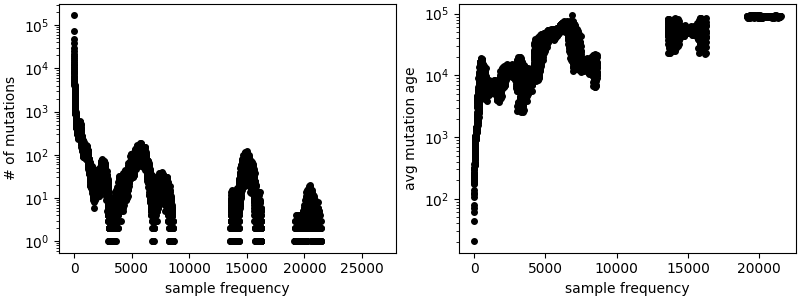
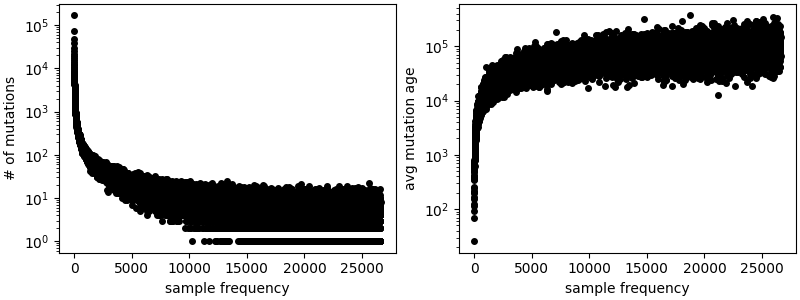
Fix bug where there was no recomb in recapitation

diff --git a/benchmarks/pedigree/spatial-simulation.py b/benchmarks/pedigree/spatial-simulation.py
@@ -339,6 +339,7 @@ if __name__ == "__main__":
         )
         full_ts = msprime.sim_ancestry(
             initial_state=pedigree_ts,
+            recombination_rate=args.recombination_rate,
             population_size=population_size,
             random_seed=args.seed + 2000,
         )
@@ -536,53 +537,3 @@ if __name__ == "__main__":
     axs[1].set_yscale("log")
     plt.savefig(f"{args.out_prefix}.mutations.png")
     plt.clf()
-    
-    import time
-    st = time.time()
-    focal_x = 20.0#args.spatial_extent / 2
-    focal_y = 20.0#args.spatial_extent / 2
-    focal = np.argmin(
-        np.sqrt(
-            (sample_locations[:, 0] - focal_x) ** 2 +
-            (sample_locations[:, 1] - focal_y) ** 2 
-        )
-    )
-    dist_to_focal = \
-        np.sqrt(
-            (sample_locations[:, 0] - sample_locations[focal, 0]) ** 2 +
-            (sample_locations[:, 1] - sample_locations[focal, 1]) ** 2 
-        )
-    subset = np.flatnonzero(dist_to_focal < 10)
-    dist_to_focal = dist_to_focal[subset]
-    order = np.argsort(dist_to_focal)
-    subset = subset[order]
-    dist_to_focal = dist_to_focal[order]
-    subset_nodes = [full_ts.individual(i).nodes for i in subset]
-    #tmp_ts = full_ts.keep_intervals([[5e6, 6e6]]).simplify().trim()
-    tmp_ts = full_ts
-    print(subset.size)
-    print(tmp_ts.simplify(samples=np.array(subset_nodes).flatten()).num_mutations, tmp_ts.num_mutations)
-    print(tmp_ts.simplify(samples=np.array(subset_nodes).flatten()).diversity(), tmp_ts.simplify(samples=np.array(subset_nodes).flatten()).segregating_sites())
-    site_rel_to_focal = tmp_ts.genetic_relatedness(
-        sample_sets=subset_nodes, #[[i] for i in subset],
-        indexes=[(0, j) for j in range(subset.size)],
-        mode='site'
-    )
-    branch_rel_to_focal = tmp_ts.genetic_relatedness(
-        sample_sets=subset_nodes, #[[i] for i in subset],
-        indexes=[(0, j) for j in range(subset.size)],
-        mode='branch'
-    )
-    fig, axs = plt.subplots(1, 2, figsize=(8, 3), constrained_layout=True)
-    axs[0].plot(branch_rel_to_focal, site_rel_to_focal, "o", color="black", markersize=4)
-    axs[0].set_xlabel("branch relatedness")
-    axs[0].set_ylabel("site relatedness")
-    axs[1].plot(dist_to_focal, site_rel_to_focal, "o", color="black", markersize=4, label="site")
-    axs[1].plot(dist_to_focal, branch_rel_to_focal, "o", color="red", markersize=4, label="branch")
-    axs[1].set_xlabel("spatial distance")
-    axs[1].set_ylabel("relatedness")
-    axs[1].legend()
-    plt.savefig(f"{args.out_prefix}.relatedness.png")
-    plt.clf()
-    print(f"{time.time() - st} seconds")
-

diff --git a/benchmarks/pedigree/spatial-simulation-infer.py b/benchmarks/pedigree/spatial-simulation-infer.py
@@ -21,9 +21,13 @@ if __name__ == "__main__":
         help="Input prefix for tree sequences, etc",
     )
     parser.add_argument(
-        "--num-threads", type=int, default=10,
+        "--num-threads", type=int, default=50,
         help="Number of threads for inference",
     )
+    #parser.add_argument(
+    #    "--num-individuals", type=int, default=5000,
+    #    help="Number of individuals to subsample for inference",
+    #)
     parser.add_argument(
         "--overwrite", action="store_true",
         help="Overwrite all output",
@@ -43,6 +47,15 @@ if __name__ == "__main__":
     genealogies_path = args.inp_prefix + ".genealogies.trees"
     ts = tszip.decompress(genealogies_path)
     logging.info(f"Input tree sequence:\n{ts}")
+
+    ## subset individuals
+    #subset_path = args.inp_prefix + ".genealogies.subset.trees"
+    #subset = np.array([ind.nodes for ind in ts.individuals() if ind.time == 0])
+    #stride = subset.shape[0] // min(ts.num_samples * 2, args.num_individuals)
+    #subset = subset[::stride].flatten()
+    #ts = ts.simplify(samples=subset)
+    #logging.info(f"Subset tree sequence:\n{ts}")
+    #tszip.compress(ts, subset_path)
 
     # remove internal pedigree individuals, as tsinfer will choke
     sampled_individuals = \
